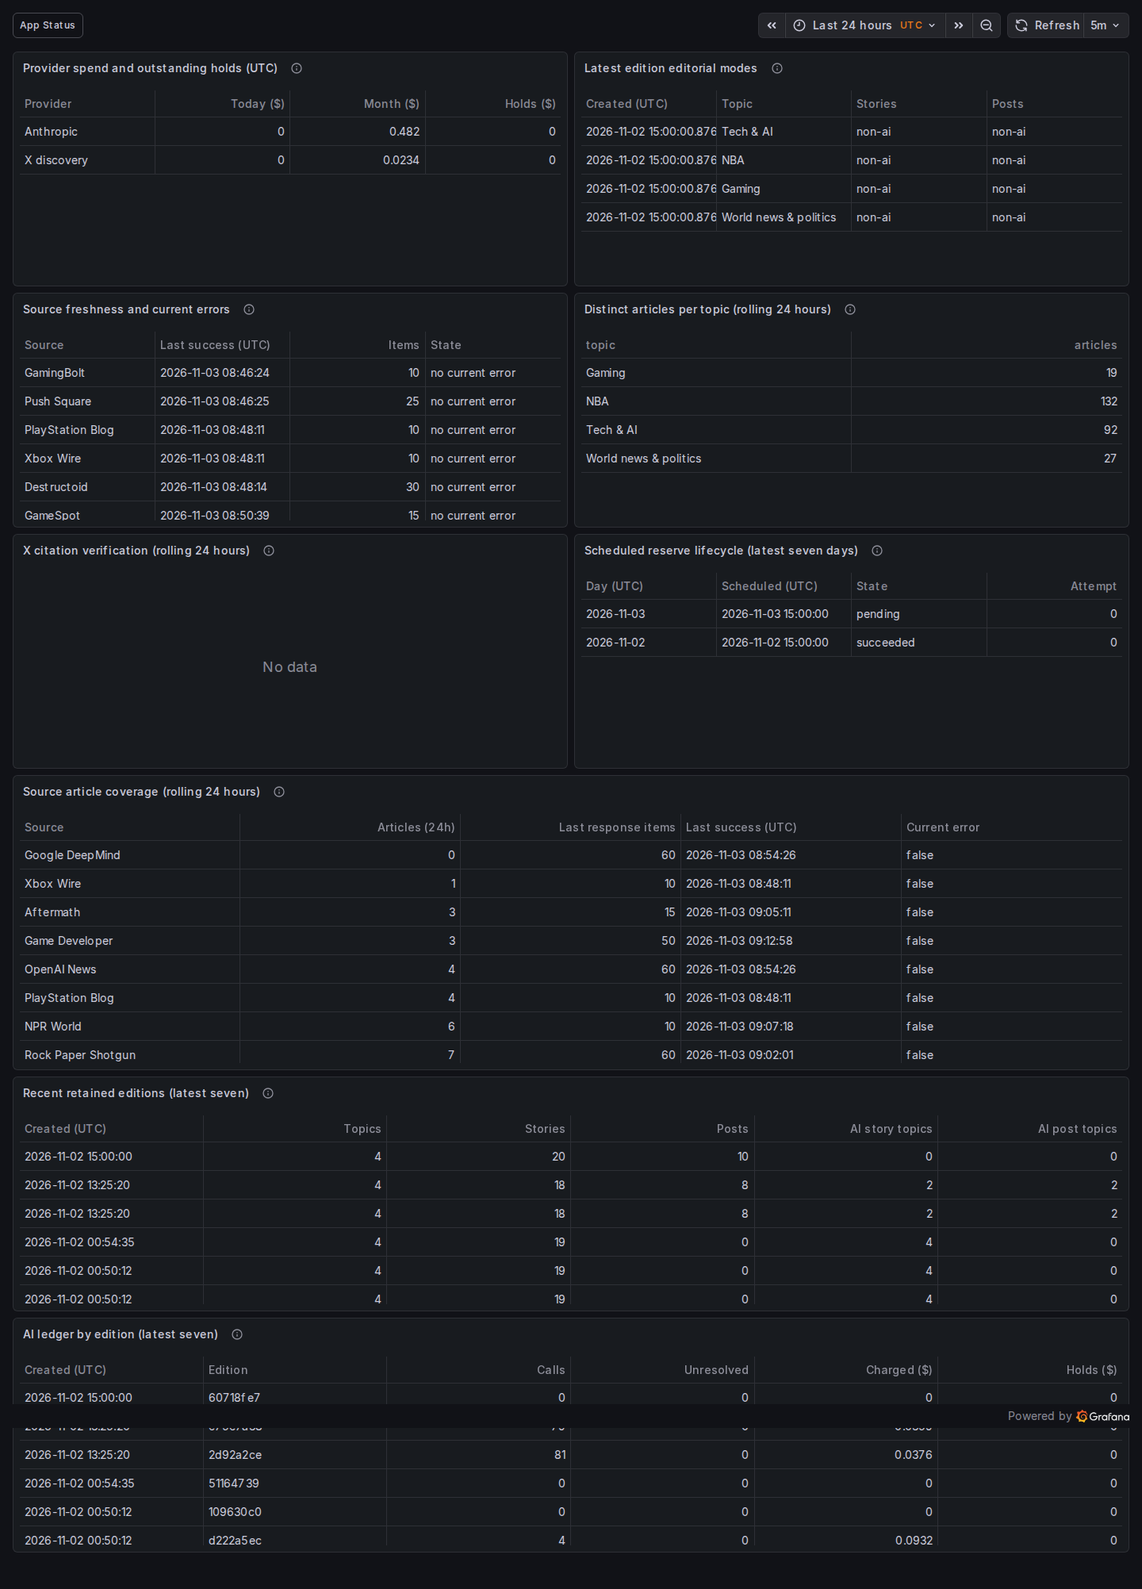
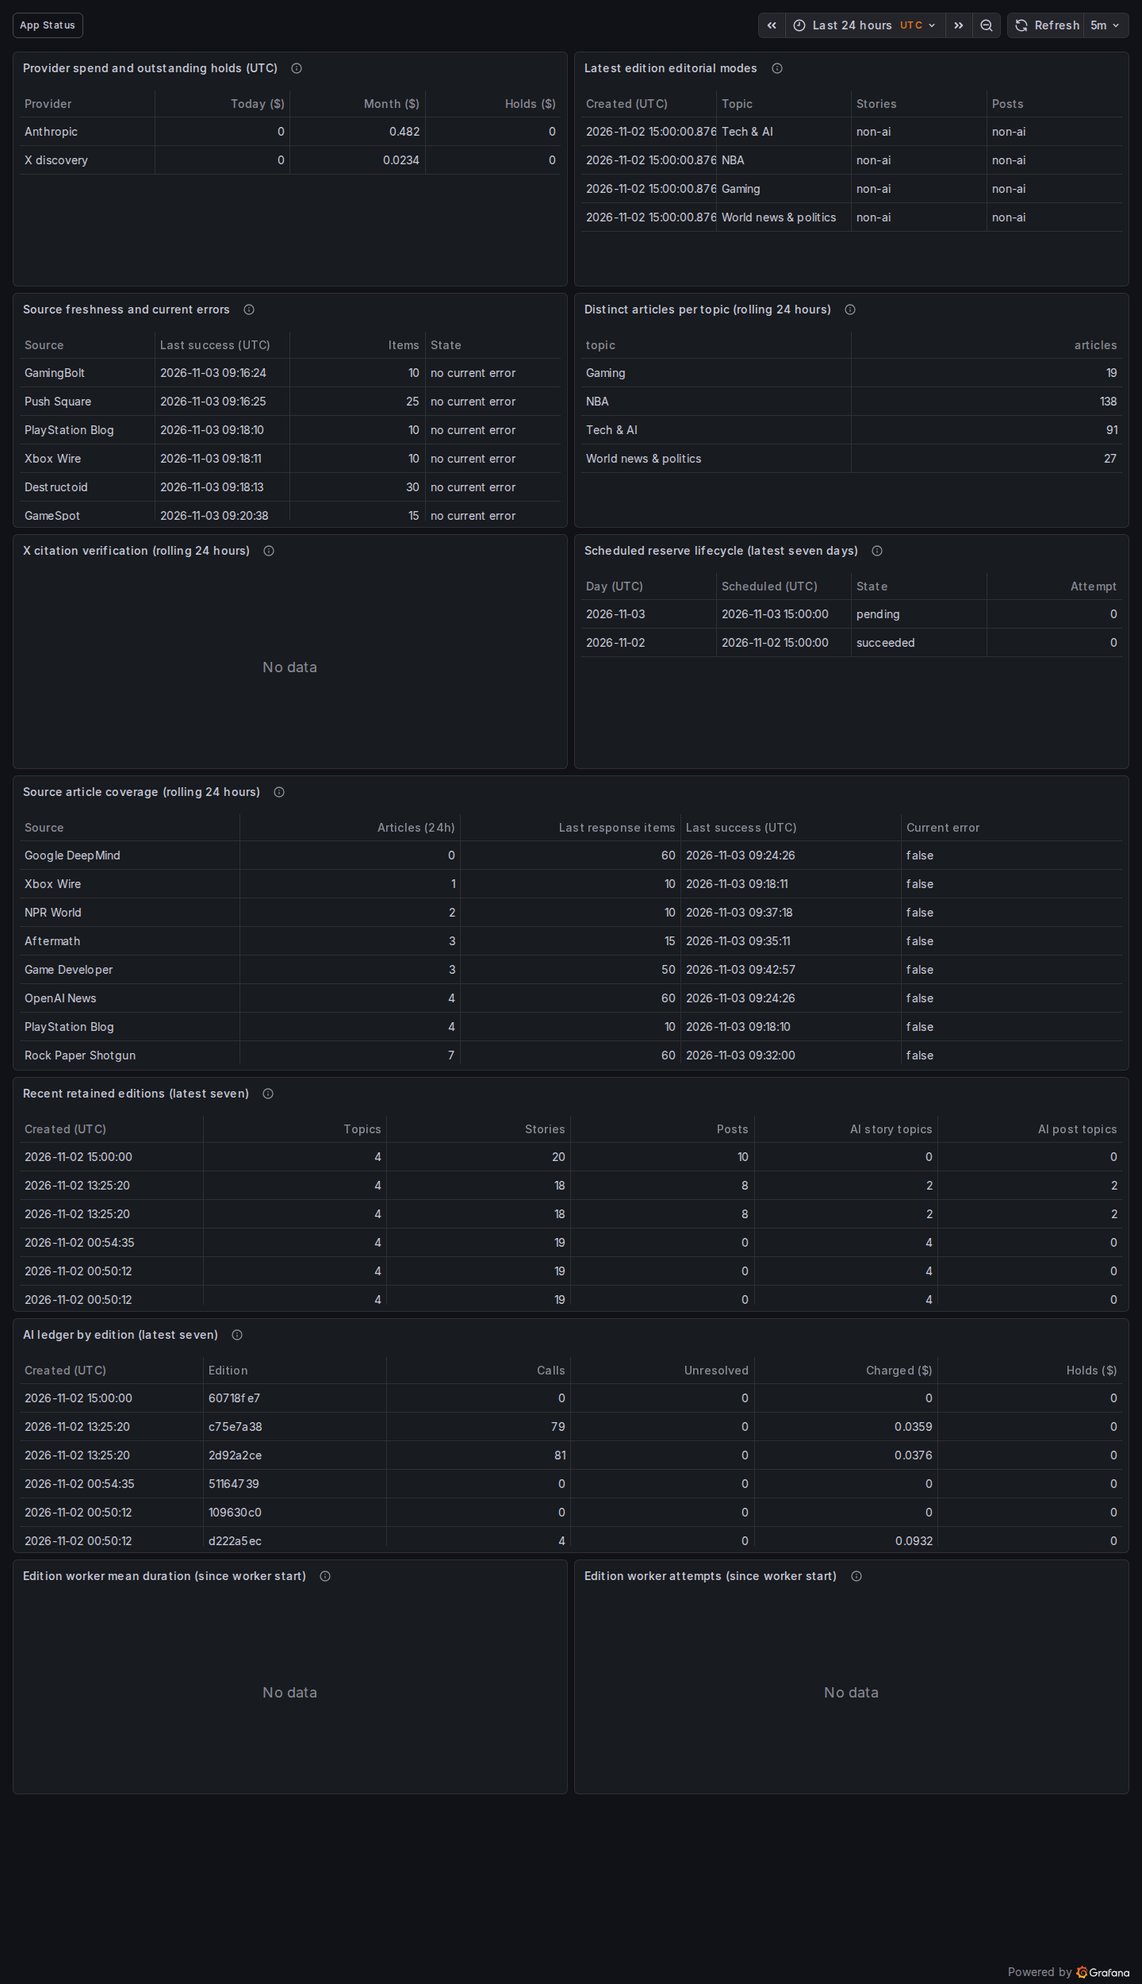
Show edition worker timing in Product dashboard

diff --git a/scripts/lib/check-grafana.ts b/scripts/lib/check-grafana.ts
@@ -247,9 +247,12 @@ export async function checkGrafana() {
         );
       await page.setViewportSize({
         width: 1440,
-        height: ['nd-product', 'nd-runtime', 'nd-redis'].includes(dashboard.uid)
-          ? 2100
-          : 1100,
+        height:
+          dashboard.uid === 'nd-product'
+            ? 2500
+            : ['nd-runtime', 'nd-redis'].includes(dashboard.uid)
+              ? 2100
+              : 1100,
       });
       const errors: string[] = [];
       page.on('response', (response) => {
@@ -377,6 +380,41 @@ export async function checkGrafana() {
     await page.waitForTimeout(1500);
     await page.screenshot({
       path: 'docs/screenshots/grafana-product-cost-mobile.png',
+    });
+    for (let attempt = 0; attempt < 12; attempt++) {
+      if (
+        await page
+          .getByRole('heading', {
+            name: 'Edition worker mean duration (since worker start)',
+            exact: true,
+          })
+          .count()
+      )
+        break;
+      await page.mouse.wheel(0, 500);
+      await page.waitForTimeout(300);
+    }
+    const timing = page.locator(
+      '[data-testid="data-testid Panel header Edition worker mean duration (since worker start)"]',
+    );
+    await page
+      .getByRole('heading', {
+        name: 'Edition worker mean duration (since worker start)',
+        exact: true,
+      })
+      .scrollIntoViewIfNeeded();
+    await page.waitForTimeout(1500);
+    assert.equal(
+      await page
+        .locator('[data-testid="data-testid Panel status error"]')
+        .count(),
+      0,
+    );
+    await timing.waitFor({ state: 'visible' });
+    await timing.evaluate((node) => node.scrollIntoView({ block: 'start' }));
+    await page.waitForTimeout(1000);
+    await page.screenshot({
+      path: 'docs/screenshots/grafana-product-timing-mobile.png',
     });
     await page.goto(`${base}/d/nd-database?kiosk`, {
       waitUntil: 'networkidle',

diff --git a/PROGRESS.md b/PROGRESS.md
@@ -1,18 +1,8 @@
 # Progress
 
-Archived: [iteration 362](docs/progress-archive/2026-11-03-iteration-362.md), [iteration 361](docs/progress-archive/2026-11-03-iteration-361.md), [iteration 360](docs/progress-archive/2026-11-03-iteration-360.md), [iteration 359](docs/progress-archive/2026-11-03-iteration-359.md), [iteration 357](docs/progress-archive/2026-11-03-iteration-357.md), [iteration 356](docs/progress-archive/2026-11-03-iteration-356.md), [iteration 355](docs/progress-archive/2026-11-03-iteration-355.md), [iteration 354](docs/progress-archive/2026-11-03-iteration-354.md), [iteration 353](docs/progress-archive/2026-11-03-iteration-353.md), [iteration 352](docs/progress-archive/2026-11-03-iteration-352.md), [iteration 351](docs/progress-archive/2026-11-03-iteration-351.md), [iteration 350](docs/progress-archive/2026-11-03-iteration-350.md), [iteration 349](docs/progress-archive/2026-11-03-iteration-349.md), [iteration 348](docs/progress-archive/2026-11-03-iteration-348.md), [iteration 347](docs/progress-archive/2026-11-03-iteration-347.md), [iteration 346](docs/progress-archive/2026-11-03-iteration-346.md), [iteration 345](docs/progress-archive/2026-11-03-iteration-345.md), [iteration 344](docs/progress-archive/2026-11-03-iteration-344.md), [iteration 343](docs/progress-archive/2026-11-03-iteration-343.md), [iteration 342](docs/progress-archive/2026-11-03-iteration-342.md), [iteration 341](docs/progress-archive/2026-11-03-iteration-341.md), [iteration 340](docs/progress-archive/2026-11-03-iteration-340.md), [iteration 338](docs/progress-archive/2026-11-03-iteration-338.md), [iteration 337](docs/progress-archive/2026-11-03-iteration-337.md), [iteration 336](docs/progress-archive/2026-11-03-iteration-336.md), [iteration 335](docs/progress-archive/2026-11-03-iteration-335.md), [iteration 334](docs/progress-archive/2026-11-03-iteration-334.md), [iteration 332](docs/progress-archive/2026-11-03-iteration-332.md), [iteration 331](docs/progress-archive/2026-11-03-iteration-331.md), [iteration 330](docs/progress-archive/2026-11-03-iteration-330.md), [iteration 329](docs/progress-archive/2026-11-03-iteration-329.md), [iteration 328](docs/progress-archive/2026-11-03-iteration-328.md), [iteration 327](docs/progress-archive/2026-11-03-iteration-327.md), [iteration 326](docs/progress-archive/2026-11-03-iteration-326.md), [iteration 325](docs/progress-archive/2026-11-03-iteration-325.md), [iteration 324](docs/progress-archive/2026-11-03-iteration-324.md), [iteration 321](docs/progress-archive/2026-11-03-iteration-321.md), [iteration 320](docs/progress-archive/2026-11-03-iteration-320.md), [iteration 319](docs/progress-archive/2026-11-03-iteration-319.md), [iterations 317–318](docs/progress-archive/2026-11-03-iterations-317-318.md), [iterations 315–316](docs/progress-archive/2026-11-03-iterations-315-316.md), [iterations 313–314](docs/progress-archive/2026-11-03-iterations-313-314.md), [iterations 311–312](docs/progress-archive/2026-11-03-iterations-311-312.md), [iterations 309–310](docs/progress-archive/2026-11-03-iterations-309-310.md), [iterations 307–308](docs/progress-archive/2026-11-03-iterations-307-308.md), [iterations 305–306](docs/progress-archive/2026-11-03-iterations-305-306.md), [iterations 303–304](docs/progress-archive/2026-11-03-iterations-303-304.md), [iteration 302](docs/progress-archive/2026-11-03-iteration-302.md), [iteration 301](docs/progress-archive/2026-11-03-iteration-301.md), [iteration 300](docs/progress-archive/2026-11-03-iteration-300.md), [iteration 299](docs/progress-archive/2026-11-03-iteration-299.md), [iteration 298](docs/progress-archive/2026-11-03-iteration-298.md), [iteration 297](docs/progress-archive/2026-11-03-iteration-297.md), [iteration 296](docs/progress-archive/2026-11-03-iteration-296.md), [iteration 295](docs/progress-archive/2026-11-03-iteration-295.md), [iteration 294](docs/progress-archive/2026-11-03-iteration-294.md), [iteration 293](docs/progress-archive/2026-11-03-iteration-293.md), [iteration 292](docs/progress-archive/2026-11-03-iteration-292.md), [iteration 291](docs/progress-archive/2026-11-03-iteration-291.md), [iteration 290](docs/progress-archive/2026-11-03-iteration-290.md), [iteration 288](docs/progress-archive/2026-11-03-iteration-288.md), [iteration 285](docs/progress-archive/2026-11-03-iteration-285.md), [286](docs/progress-archive/2026-11-03-iteration-286.md).
+Archived: [iteration 363](docs/progress-archive/2026-11-03-iteration-363.md), [iteration 362](docs/progress-archive/2026-11-03-iteration-362.md), [iteration 361](docs/progress-archive/2026-11-03-iteration-361.md), [iteration 360](docs/progress-archive/2026-11-03-iteration-360.md), [iteration 359](docs/progress-archive/2026-11-03-iteration-359.md), [iteration 357](docs/progress-archive/2026-11-03-iteration-357.md), [iteration 356](docs/progress-archive/2026-11-03-iteration-356.md), [iteration 355](docs/progress-archive/2026-11-03-iteration-355.md), [iteration 354](docs/progress-archive/2026-11-03-iteration-354.md), [iteration 353](docs/progress-archive/2026-11-03-iteration-353.md), [iteration 352](docs/progress-archive/2026-11-03-iteration-352.md), [iteration 351](docs/progress-archive/2026-11-03-iteration-351.md), [iteration 350](docs/progress-archive/2026-11-03-iteration-350.md), [iteration 349](docs/progress-archive/2026-11-03-iteration-349.md), [iteration 348](docs/progress-archive/2026-11-03-iteration-348.md), [iteration 347](docs/progress-archive/2026-11-03-iteration-347.md), [iteration 346](docs/progress-archive/2026-11-03-iteration-346.md), [iteration 345](docs/progress-archive/2026-11-03-iteration-345.md), [iteration 344](docs/progress-archive/2026-11-03-iteration-344.md), [iteration 343](docs/progress-archive/2026-11-03-iteration-343.md), [iteration 342](docs/progress-archive/2026-11-03-iteration-342.md), [iteration 341](docs/progress-archive/2026-11-03-iteration-341.md), [iteration 340](docs/progress-archive/2026-11-03-iteration-340.md), [iteration 338](docs/progress-archive/2026-11-03-iteration-338.md), [iteration 337](docs/progress-archive/2026-11-03-iteration-337.md), [iteration 336](docs/progress-archive/2026-11-03-iteration-336.md), [iteration 335](docs/progress-archive/2026-11-03-iteration-335.md), [iteration 334](docs/progress-archive/2026-11-03-iteration-334.md), [iteration 332](docs/progress-archive/2026-11-03-iteration-332.md), [iteration 331](docs/progress-archive/2026-11-03-iteration-331.md), [iteration 330](docs/progress-archive/2026-11-03-iteration-330.md), [iteration 329](docs/progress-archive/2026-11-03-iteration-329.md), [iteration 328](docs/progress-archive/2026-11-03-iteration-328.md), [iteration 327](docs/progress-archive/2026-11-03-iteration-327.md), [iteration 326](docs/progress-archive/2026-11-03-iteration-326.md), [iteration 325](docs/progress-archive/2026-11-03-iteration-325.md), [iteration 324](docs/progress-archive/2026-11-03-iteration-324.md), [iteration 321](docs/progress-archive/2026-11-03-iteration-321.md), [iteration 320](docs/progress-archive/2026-11-03-iteration-320.md), [iteration 319](docs/progress-archive/2026-11-03-iteration-319.md), [iterations 317–318](docs/progress-archive/2026-11-03-iterations-317-318.md), [iterations 315–316](docs/progress-archive/2026-11-03-iterations-315-316.md), [iterations 313–314](docs/progress-archive/2026-11-03-iterations-313-314.md), [iterations 311–312](docs/progress-archive/2026-11-03-iterations-311-312.md), [iterations 309–310](docs/progress-archive/2026-11-03-iterations-309-310.md), [iterations 307–308](docs/progress-archive/2026-11-03-iterations-307-308.md), [iterations 305–306](docs/progress-archive/2026-11-03-iterations-305-306.md), [iterations 303–304](docs/progress-archive/2026-11-03-iterations-303-304.md), [iteration 302](docs/progress-archive/2026-11-03-iteration-302.md), [iteration 301](docs/progress-archive/2026-11-03-iteration-301.md), [iteration 300](docs/progress-archive/2026-11-03-iteration-300.md), [iteration 299](docs/progress-archive/2026-11-03-iteration-299.md), [iteration 298](docs/progress-archive/2026-11-03-iteration-298.md), [iteration 297](docs/progress-archive/2026-11-03-iteration-297.md), [iteration 296](docs/progress-archive/2026-11-03-iteration-296.md), [iteration 295](docs/progress-archive/2026-11-03-iteration-295.md), [iteration 294](docs/progress-archive/2026-11-03-iteration-294.md), [iteration 293](docs/progress-archive/2026-11-03-iteration-293.md), [iteration 292](docs/progress-archive/2026-11-03-iteration-292.md), [iteration 291](docs/progress-archive/2026-11-03-iteration-291.md), [iteration 290](docs/progress-archive/2026-11-03-iteration-290.md), [iteration 288](docs/progress-archive/2026-11-03-iteration-288.md), [iteration 285](docs/progress-archive/2026-11-03-iteration-285.md), [286](docs/progress-archive/2026-11-03-iteration-286.md).
 
 Earlier entries: [iterations 269–270](docs/progress-archive/2026-11-03-iterations-269-270.md), [271–272](docs/progress-archive/2026-11-03-iterations-271-272.md), [273–274](docs/progress-archive/2026-11-03-iterations-273-274.md), [275–276](docs/progress-archive/2026-11-03-iterations-275-276.md), [277–278](docs/progress-archive/2026-11-03-iterations-277-278.md), [279–280](docs/progress-archive/2026-11-03-iterations-279-280.md), [282](docs/progress-archive/2026-11-03-iteration-282.md), [283](docs/progress-archive/2026-11-03-iteration-283.md), [284](docs/progress-archive/2026-11-03-iteration-284.md).
-
-## 2026-11-03: iteration 363 — provider HTTP attempt metrics
-
-- Started clean on main; no leftover work. Four app units/health green, no current source errors or failed digest jobs; two retained ingestion failures have recovered sources. Nov 3 scheduled evidence remains pending.
-- Continued O5: Anthropic, direct xAI and Bluesky fetch attempts now use private fixed-target duration/count histograms. Provider timing ends at headers; HTTP success does not imply valid content. Retries and Bluesky auth requests count separately; no URLs, credentials or content labels.
-- Offline tests preserve request/response/error identity, unread bodies and bounded status/outcome labels. Extended `check-observability.ts --verify-external-http-metrics`; updated handbook/plan/TASKS and archived iteration 351. No UI/diagram change.
-- Verification: focused provider/LLM/xAI/Bluesky tests 30/30; `pnpm format`, `pnpm lint:fix`, `pnpm check` (231 unit/172 integration), `pnpm build`, handbook 09 and `git diff --check` passed.
-- Restarted API/worker for changed code; docs/schema/DB/Redis untouched. Runtime checker with `--verify-o4 --verify-external-http-metrics` passed; six targets healthy, health green. Retained real edition: four topics/20 stories/10 posts. Provider samples verified offline only; no paid calls triggered.
-- Observability daemons sampled ~217 MiB RAM/~0.7% startup-average CPU combined; metrics ~30 MiB allocated. No Reddit requests or production content/spending-setting changes.
-- Next: scheduled evidence/acks first; otherwise O5 queue-state/schedule metrics. Production activation stays gated.
 
 ## 2026-11-03: iteration 364 — private queue snapshots
 
@@ -113,3 +103,12 @@ Earlier entries: [iterations 269–270](docs/progress-archive/2026-11-03-iterati
 - Verification: `pnpm format`, `pnpm lint:fix`, `pnpm check` (232 unit/172 integration), `pnpm build`, handbook 09, `bash -n`, systemd unit validation and `git diff --check` passed. `check-observability.ts --verify-grafana --verify-o4`: 59 valid queries/56 populated, seven healthy targets; desktop/mobile screenshots inspected.
 - Installed/restarted only the new exporter; metrics config hot-reloaded and Grafana auto-provisioned. App/DB/Redis services needed no restart. Existing real edition retains four topics, 20 stories/10 posts. No paid calls, Reddit requests or production content/spending-setting changes.
 - Next: scheduled evidence/acks first; otherwise remaining O6 Agent/Product caps/timing or O7 Postgres collection.
+
+## 2026-11-03: iteration 375 — Product worker timing
+
+- Started clean on main; no leftover work. API/worker/docs/schema and health green; 32 sources without current errors, no failed digest runs. Nov 3 15:00 UTC evidence remains pending.
+- Added Product graphs for mean edition worker attempt duration and settled attempts since worker start, split by job name/outcome. Includes cache/fallback/reuse and retries, excludes queue wait; no cold-AI claim. No observed edition metrics yet, shown as no data rather than zero. Individual run timing/caps remain in Status.
+- Verified query arithmetic against existing real ingestion metrics; no edition or provider calls triggered. Updated handbook/plan/TASKS and archived iteration 363.
+- Verification: `pnpm format`, `pnpm lint:fix`, `pnpm check` (232 unit/172 integration, exit 0), `pnpm build`, handbook 09 and `git diff --check` passed. `check-observability.ts --verify-grafana --verify-o4`: 61 valid queries/56 populated, seven healthy targets. Desktop/mobile screenshots inspected and capture alignment corrected.
+- Dashboard hot-reloaded; no running service code/config restart needed. Retained real edition has four topics, 20 stories/10 posts. No paid calls, Reddit requests or production content/spending-setting changes.
+- Next: scheduled evidence/acks first; otherwise remaining O6 Agent/Product caps or O7 Postgres collection. Production activation stays gated.

diff --git a/TASKS.md b/TASKS.md
@@ -70,4 +70,4 @@ M0–M2; M3/M6/M7 foundations implemented.
 - [ ] STEERING 2a (lower priority): finish repository/HTTP characterization before ORM. Isolated DB/Redis, migrations, HTTP/worker and synthetic-AI goldens implemented (183–270); gaps: [database verification](docs/DATABASE-VERIFICATION.md). No live DB; finish 2a before ORM. Recorded-response golden open.
 - [ ] STEERING 2b (only after 2a is green): record Drizzle decision/schema parity, back up live DB, gradually replace raw SQL behind ports and enforce boundaries.
 
-- [ ] STEERING 24 (background): [observability plan](docs/observability-plan.md), only while product work is blocked. O1–O5 verified (354–364): private runtime, HTTP, external-call, job-attempt and queue-state/schedule metrics scraped. O6 advanced (365–373): private Grafana Host/Services/HTTP/Jobs, Errors/logs and read-only Product/Database dashboards, source coverage, edition history, attributed AI costs/holds and app runtime memory/heap/descriptors/GC/CPU/active work/event-loop delay; Redis shipped (374); Agent, Database top queries (O7) and full Product cap/timing coverage remain. Scheduled evidence/acks take priority; preserve caps and run protection.
+- [ ] STEERING 24 (background): [observability plan](docs/observability-plan.md), only while product work is blocked. O1–O5 verified (354–364): private runtime, HTTP, external-call, job-attempt and queue-state/schedule metrics scraped. O6 advanced (365–373): private Grafana Host/Services/HTTP/Jobs, Errors/logs and read-only Product/Database dashboards, source coverage, edition history, attributed AI costs/holds and app runtime memory/heap/descriptors/GC/CPU/active work/event-loop delay; Redis shipped (374); Product worker attempt timing/counts shipped (375). Agent, Database top queries (O7) and Product caps/individual run timing remain. Scheduled evidence/acks take priority; preserve caps and run protection.

diff --git a/docs/progress-archive/2026-11-03-iteration-363.md b/docs/progress-archive/2026-11-03-iteration-363.md
@@ -1,0 +1,9 @@
+## 2026-11-03: iteration 363 — provider HTTP attempt metrics
+
+- Started clean on main; no leftover work. Four app units/health green, no current source errors or failed digest jobs; two retained ingestion failures have recovered sources. Nov 3 scheduled evidence remains pending.
+- Continued O5: Anthropic, direct xAI and Bluesky fetch attempts now use private fixed-target duration/count histograms. Provider timing ends at headers; HTTP success does not imply valid content. Retries and Bluesky auth requests count separately; no URLs, credentials or content labels.
+- Offline tests preserve request/response/error identity, unread bodies and bounded status/outcome labels. Extended `check-observability.ts --verify-external-http-metrics`; updated handbook/plan/TASKS and archived iteration 351. No UI/diagram change.
+- Verification: focused provider/LLM/xAI/Bluesky tests 30/30; `pnpm format`, `pnpm lint:fix`, `pnpm check` (231 unit/172 integration), `pnpm build`, handbook 09 and `git diff --check` passed.
+- Restarted API/worker for changed code; docs/schema/DB/Redis untouched. Runtime checker with `--verify-o4 --verify-external-http-metrics` passed; six targets healthy, health green. Retained real edition: four topics/20 stories/10 posts. Provider samples verified offline only; no paid calls triggered.
+- Observability daemons sampled ~217 MiB RAM/~0.7% startup-average CPU combined; metrics ~30 MiB allocated. No Reddit requests or production content/spending-setting changes.
+- Next: scheduled evidence/acks first; otherwise O5 queue-state/schedule metrics. Production activation stays gated.

diff --git a/docs/handbook/01-app/09-observability.md b/docs/handbook/01-app/09-observability.md
@@ -259,8 +259,15 @@ discovery and unpublished attempts, so it is not total scheduled-run spend.
 Source response counts include duplicates and older items; they are not new-item yield.
 Edition creation time is not worker duration. These table windows are explicit and ignore the Grafana time picker.
 AI mode can use cached work; verified citations are not incremental discovery yield.
-Configured caps, reserve amounts, available funds and worker duration remain in the
-app's **Source & run status** panel; Product does not infer them from ledger rows.
+Product also graphs mean worker attempt duration and settled
+attempt counts since the current worker started, by job name and outcome, using
+existing worker metrics. These include
+cached, fallback and reused editions; retries count separately and queue wait is
+excluded. No data means no observed settled attempts, not zero failures. This does
+not establish cold AI latency. Counters reset on restart. The time picker controls
+the graph's displayed range.
+Configured caps, reserve amounts, available funds and individual run durations remain
+in the app's **Source & run status** panel; Product does not infer caps from ledger rows.
 
 Database uses the same restricted Postgres connection for current system statistics:
 connections, transactions, deadlocks, temporary bytes, shared-buffer hit ratio,

diff --git a/docs/observability-plan.md b/docs/observability-plan.md
@@ -198,6 +198,11 @@ only when its check passes.
   - **Done when:** every dashboard renders with no panel errors (screenshot
     check).
   - Iteration 373: App runtime adds event-loop p99 and maximum delay for all four Node services, using existing scrapes. Panels explain the per-scrape window and approximately 10 ms sampling floor; desktop/mobile verification covers delay. No app changes.
+    O6 incremental progress (375): Product graphs rolling 24-hour edition worker mean
+    attempt duration and estimated attempt counts by name/outcome from existing metrics.
+    No samples before observed attempts; cached/fallback/reused work and retries are
+    included, queue wait excluded. Individual run timing and caps remain in app Status.
+
 - [ ] **O7 Database and Redis.**
   - Iteration 374: Redis collector and O6 Redis dashboard shipped. Pinned/checksummed redis_exporter v1.96.0, loopback INFO-only, 30-second scraping, 32 MB/2% CPU ceiling; no key scanning, app or Redis restart. Eight panels and desktop/mobile checked. Postgres exporter/top queries remain open.
   - **Scope:** postgres_exporter, `pg_stat_statements`, slow-query log and
